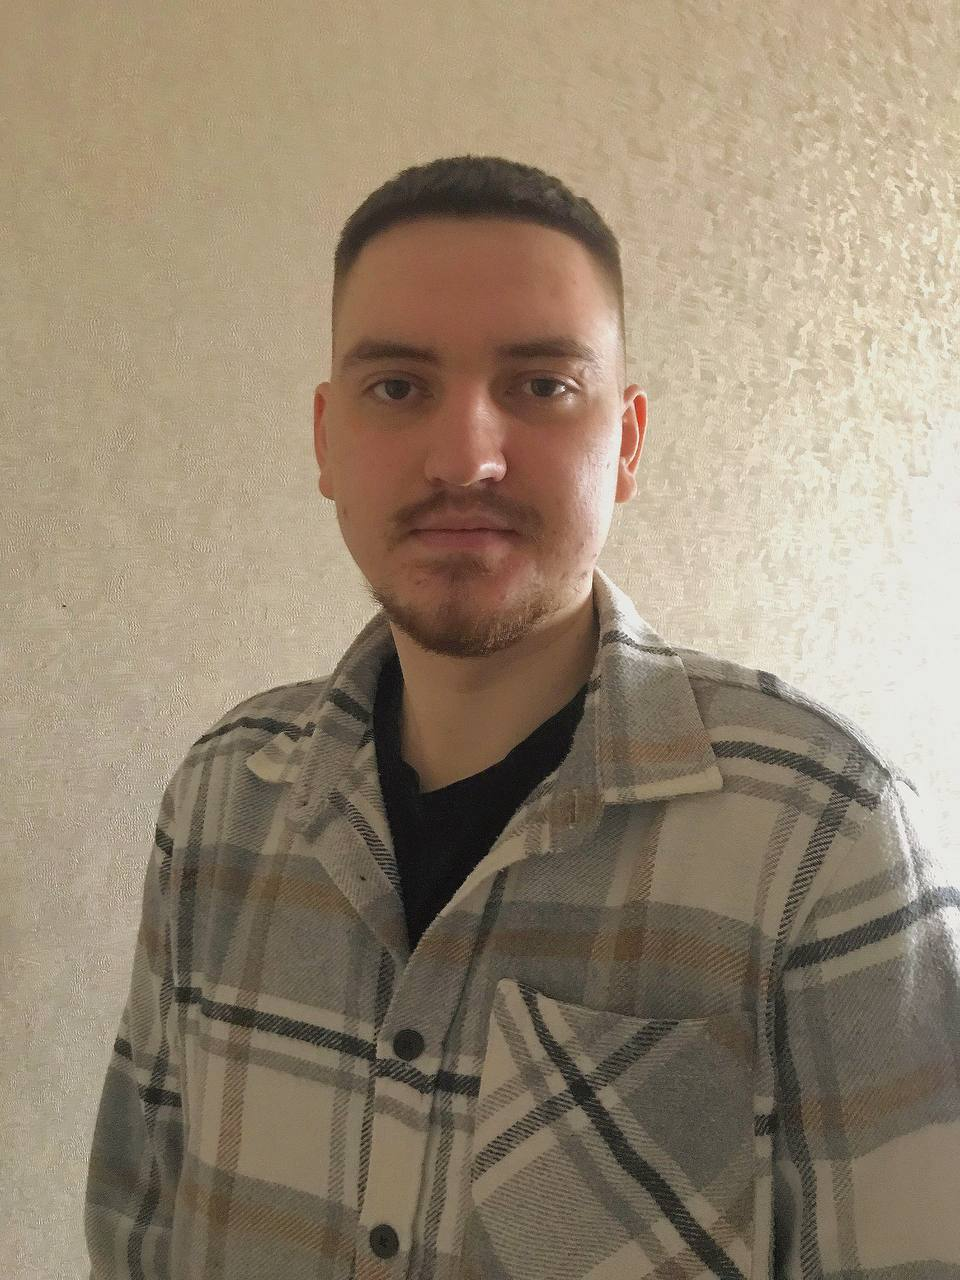
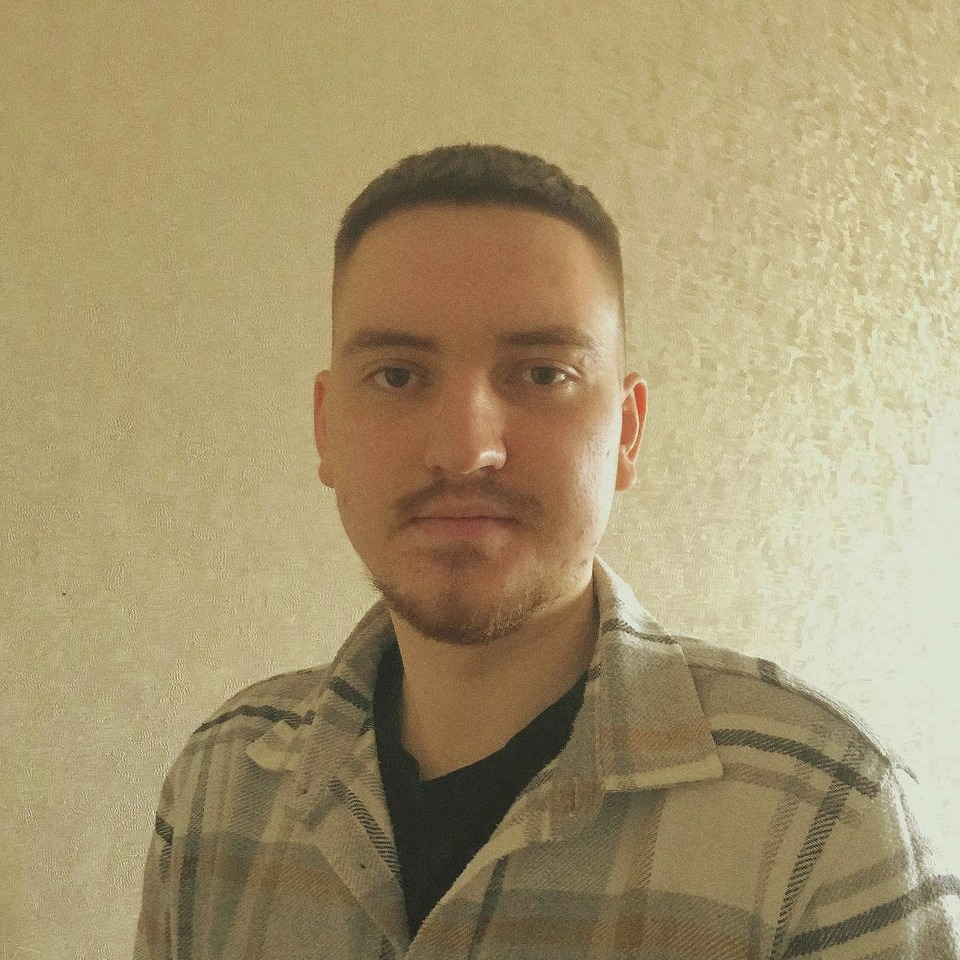
feat: add photo, photo styles and fonts

diff --git a/index.html b/index.html
@@ -1,0 +1,28 @@
+<!DOCTYPE html>
+<html>
+
+<head>
+    <meta charset="UTF-8">
+    <meta http-equiv="X-UA-Compatible" content="IE=edge">
+    <meta name="viewport" content="width=device-width, initial-scale=1.0">
+    <title>Arsenii Makhov CV</title>
+    <link rel="stylesheet" href="css/style.css">
+    <link rel="preconnect" href="https://fonts.googleapis.com">
+    <link rel="preconnect" href="https://fonts.gstatic.com" crossorigin>
+    <link href="https://fonts.googleapis.com/css2?family=PT+Sans&family=Work+Sans&display=swap" rel="stylesheet">
+</head>
+
+<body>
+    <main class="person">
+        <section class="side-left">
+            <div class="person__img">
+                <img src="img/фото.jpg" alt="Арсений Махов">
+            </div>
+        </section>
+        <section class="side-right">
+
+        </section>
+    </main>
+</body>
+
+</html>

diff --git a/css/style.css b/css/style.css
@@ -3,3 +3,34 @@
     padding: 0;
     box-sizing: border-box;
 }
+
+body {
+    font-family: 'Work Sans', sans-serif;
+}
+
+.person {
+    display: flex;
+}
+
+.side-left {
+    width: 40%;
+    background-color: #2D4059;
+    color: #fff;
+}
+
+.side-right {
+    width: 60%;
+    background-color: #fff;
+    color: #2D4059;
+}
+
+.person__img {
+    width: 50%;
+    margin: 20px auto;
+}
+
+.person__img img {
+    width: 100%;
+    border-radius: 50%;
+    border: 10px solid #EA5455;
+}
